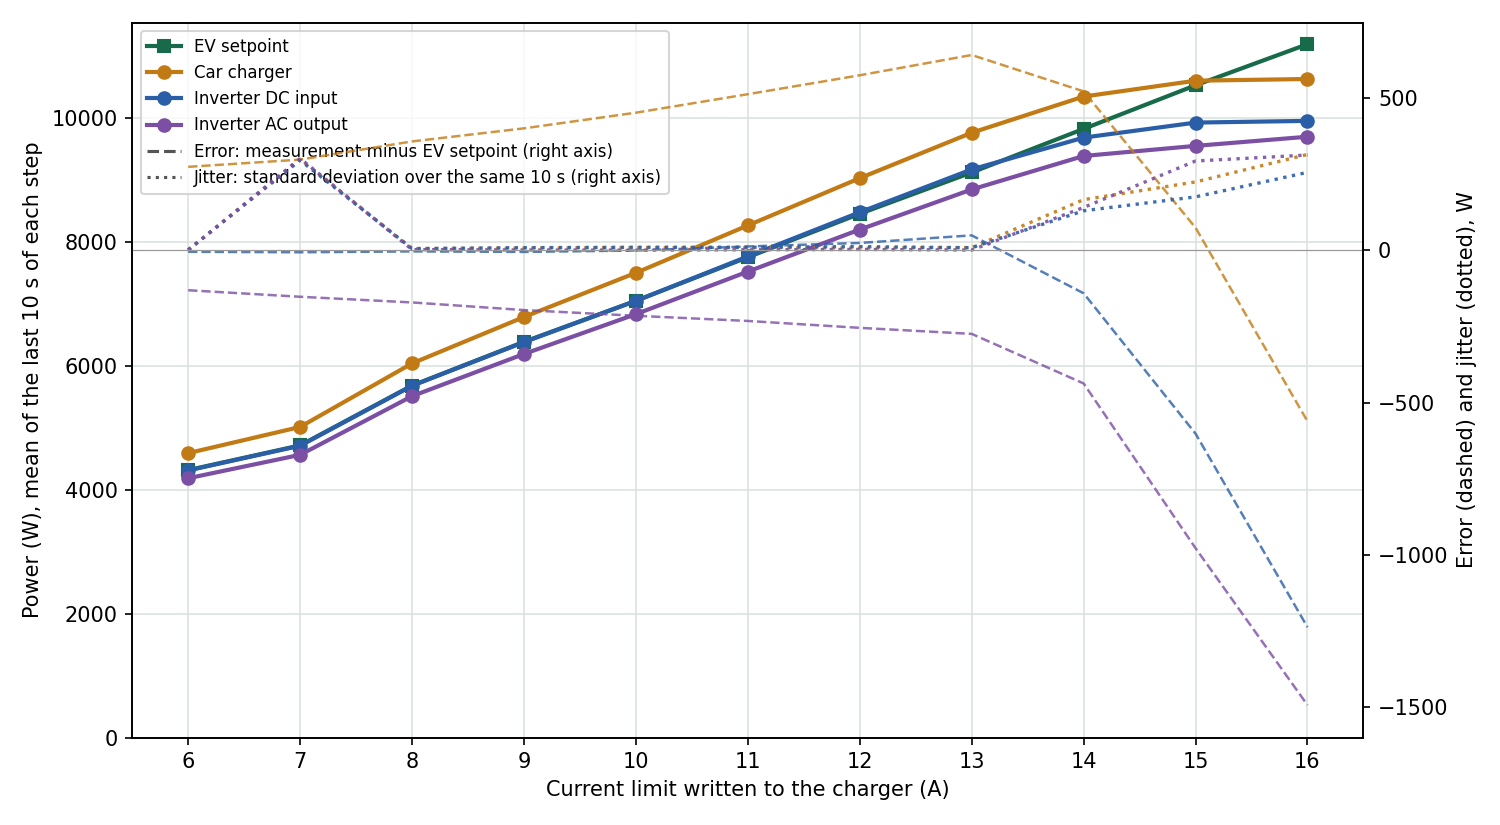
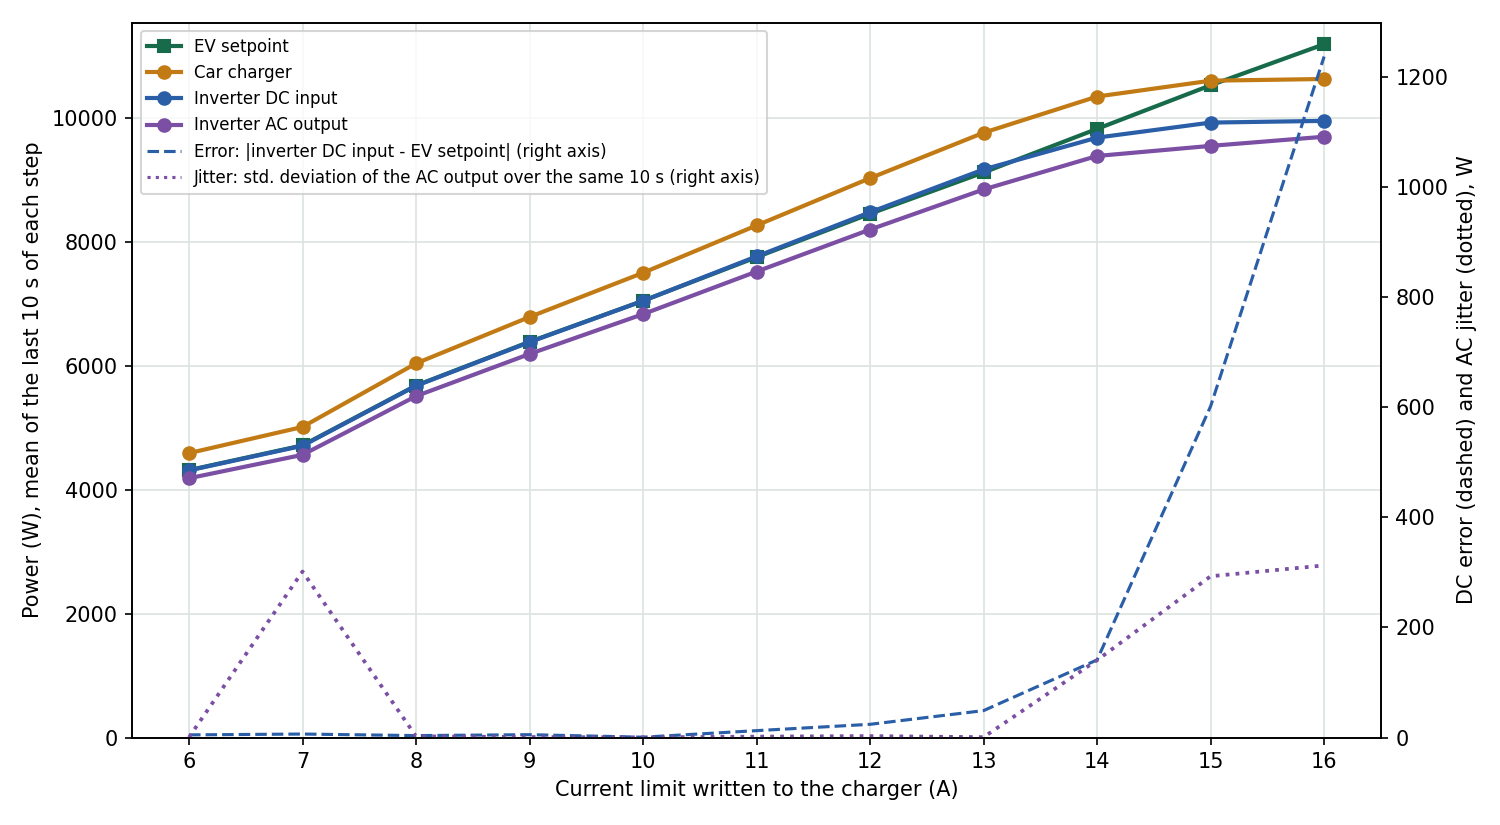
Power plot: right axis shows only the DC absolute error and the AC jitter

diff --git a/tools/plot_recording.py b/tools/plot_recording.py
@@ -178,21 +178,22 @@ def plot_power(result, out):
         if not points:
             continue
         ax.plot([a for a, *_ in points], [w for _, w, *_ in points], label=label, color=color, marker="o", linewidth=2)
-        errors = [(a, w - target) for a, w, _, target in points if target is not None]
-        if errors:
-            right.plot([a for a, _ in errors], [e for _, e in errors], color=color, linestyle="--", linewidth=1.2, alpha=0.8)
-        right.plot([a for a, *_ in points], [j for _, _, j, _ in points], color=color, linestyle=":", linewidth=1.6, alpha=0.9)
+        if key == "dc_w":
+            errors = [(a, abs(w - target)) for a, w, _, target in points if target is not None]
+            right.plot([a for a, _ in errors], [e for _, e in errors], color=color, linestyle="--", linewidth=1.5)
+        if key == "ac_w":
+            right.plot([a for a, *_ in points], [j for _, _, j, _ in points], color=color, linestyle=":", linewidth=1.8)
     ax.set_xlabel("Current limit written to the charger (A)")
     ax.set_ylabel("Power (W), mean of the last %d s of each step" % SETTLED_S)
-    right.set_ylabel("Error (dashed) and jitter (dotted), W")
-    right.axhline(0, color="#999999", linewidth=0.6)
+    right.set_ylabel("DC error (dashed) and AC jitter (dotted), W")
+    right.set_ylim(bottom=0)
     ax.set_xticks(amps)
     ax.set_ylim(bottom=0)
     ax.grid(color="#dce4df")
     handles, labels = ax.get_legend_handles_labels()
     from matplotlib.lines import Line2D
-    handles += [Line2D([], [], color="#555555", linestyle="--"), Line2D([], [], color="#555555", linestyle=":")]
-    labels += ["Error: measurement minus EV setpoint (right axis)", "Jitter: standard deviation over the same 10 s (right axis)"]
+    handles += [Line2D([], [], color="#2a5fa8", linestyle="--"), Line2D([], [], color="#7b4fa3", linestyle=":")]
+    labels += ["Error: |inverter DC input - EV setpoint| (right axis)", "Jitter: std. deviation of the AC output over the same 10 s (right axis)"]
     ax.legend(handles, labels, loc="upper left", fontsize=8)
     fig.tight_layout()
     fig.savefig(out, dpi=150)
